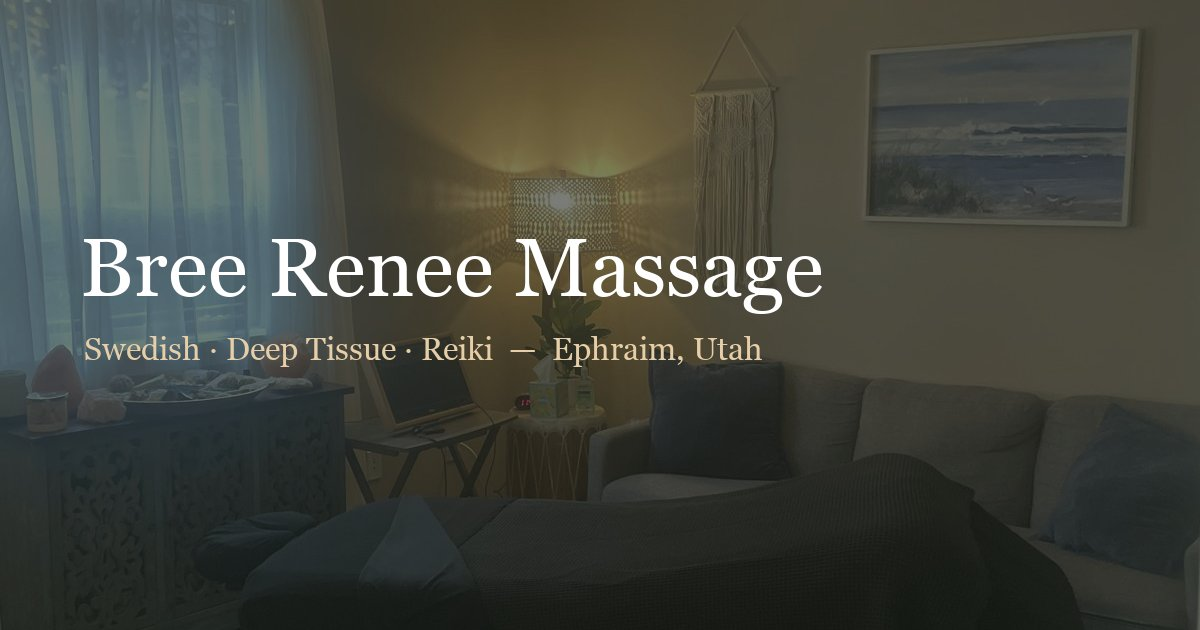
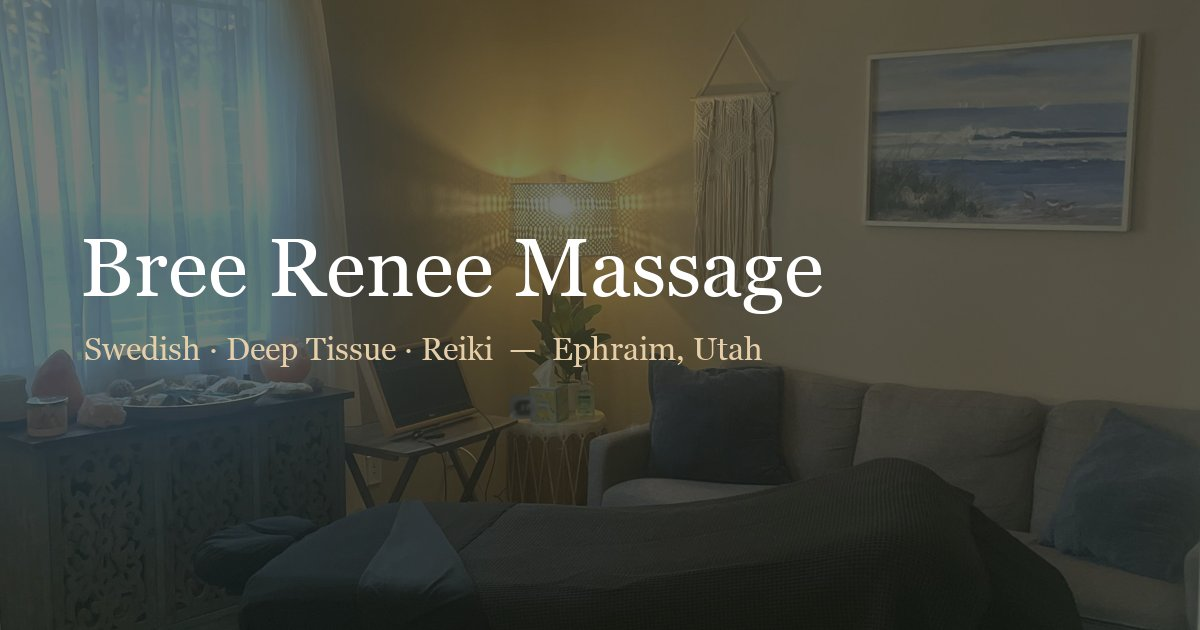
Bree: brighter wide hero, Bree photo chip + Meet Bree moved up, review strip, Reiki save $280

diff --git a/index.html b/index.html
@@ -16,7 +16,16 @@
 <div class="wrap"><p class="kick">Massage therapy &middot; Ephraim, Utah</p>
 <h1>Heal through <i>therapeutic</i> touch</h1>
 <p class="lead">Whether you're navigating chronic pain, burnout, or craving stillness, you've found your way here. Swedish and deep tissue massage with Reiki Master Bree Renee.</p>
-<div class="cta"><a class="btn light" href="https://book.squareup.com/appointments/sf5pvfurub81u7/location/LKKCGNEJVD06K/services">Book your massage</a><a class="btn ghost" href="/bree-renee-massage/pricing/">See pricing</a></div><p class="note" style="color:inherit;opacity:.85">New male clients by referral only. <a href="/bree-renee-massage/pricing/#policy">Details</a></p></div></section>
+<div class="cta"><a class="btn light" href="https://book.squareup.com/appointments/sf5pvfurub81u7/location/LKKCGNEJVD06K/services">Book your massage</a><a class="btn ghost" href="/bree-renee-massage/pricing/">See pricing</a></div><p class="note" style="color:inherit;opacity:.85">New male clients by referral only. <a href="/bree-renee-massage/pricing/#policy">Details</a></p>
+<a class="hchip" href="/bree-renee-massage/about/"><img src="/bree-renee-massage/img/bree.jpg" alt="Bree Renee" width="54" height="54"><span>Hi, I'm Bree<small>LICENSED MASSAGE THERAPIST &middot; REIKI MASTER</small></span></a></div></section>
+<section class="proof" aria-label="Client review"><div class="wrap"><div><div class="st">★★★★★</div><blockquote>“After one session, I slept pain-free for the first time in weeks.”</blockquote><cite>Austin L.</cite></div>
+<div class="score"><b>5.0</b>16 Facebook recommendations<br><a href="/bree-renee-massage/reviews/">Read all reviews →</a></div></div></section>
+
+<section class="sec" id="meet"><div class="wrap split"><img src="/bree-renee-massage/img/bree.jpg" alt="Bree Renee, massage therapist and Reiki Master in Ephraim" width="600" height="600">
+<div><p class="kick" style="margin-left:-38px">Meet Bree</p><h2>Massage is my art, my passion &amp; my <i>purpose</i></h2>
+<p>Bree followed a string of "nudges" to massage school, having received only one massage in her life. The minute she walked through the doors of Healing Mountain Massage School, she knew she was home.</p>
+<p>Today she's a licensed massage therapist and Reiki Master who blends skilled bodywork with energetic awareness. Her purpose is simple: help every client feel cared for, safe and loved.</p>
+<div class="cta"><a class="btn ghost" href="/bree-renee-massage/about/">Bree's story</a></div></div></div></section>
 
 <section class="sec"><div class="wrap center"><p class="kick">What to expect</p><h2>Holding space for the body <i>to heal</i></h2>
 <p class="lead">The body heals itself when it is in a state of rest. Bree's job is to hold that space, so your body can do what it knows how to do best.</p>
@@ -26,13 +35,8 @@
 
 <section class="sec sand"><div class="wrap"><div class="center"><p class="kick">Massage</p><h2>Choose your <i>session</i></h2>
 <p class="lead">Every session includes a personalized care plan. Your healing journey is always uniquely yours.</p></div>
-<div class="three"><a class="card" href="/bree-renee-massage/swedish-massage/"><span class="n">01</span><h3>Swedish massage</h3><p>A gentle, nurturing touch to release surface tension, ease stress, and invite your body into a state of rest and…</p><span class="pill">from $111</span><br><span class="more">Learn more →</span></a><a class="card" href="/bree-renee-massage/deep-tissue-massage/"><span class="n">02</span><h3>Deep tissue massage</h3><p>Focused, deep pressure to melt stubborn muscle tension and restore mobility. Includes trigger point therapy to melt away knots, and dynamic…</p><span class="pill">from $122</span><br><span class="more">Learn more →</span></a><a class="card" href="/bree-renee-massage/reiki-energy-work/"><span class="n">03</span><h3>Reiki & energy work</h3><p>Myofascial work meets energetic awareness. During your session Bree isn't only feeling for knots in the muscles. She can sense energetic imbalances…</p><span class="pill">$65 a session</span><br><span class="more">Learn more →</span></a></div></div></section>
+<div class="three"><a class="card" href="/bree-renee-massage/swedish-massage/"><span class="n">01</span><h3>Swedish massage</h3><p>A gentle, nurturing touch to release surface tension, ease stress, and invite your body into a state of rest and…</p><span class="pill">from $111</span><br><span class="more">Learn more →</span></a><a class="card" href="/bree-renee-massage/deep-tissue-massage/"><span class="n">02</span><h3>Deep tissue massage</h3><p>Focused, deep pressure to melt stubborn muscle tension and restore mobility. Includes trigger point therapy to melt away knots, and dynamic…</p><span class="pill">from $122</span><br><span class="more">Learn more →</span></a><a class="card" href="/bree-renee-massage/reiki-energy-work/"><span class="n">03</span><h3>Reiki & energy work</h3><p>Myofascial work meets energetic awareness. During your session Bree isn't only feeling for knots in the muscles. She can sense energetic imbalances…</p><span class="pill">$65 a session</span><span class="pill">12 for $500 &middot; save $280</span><br><span class="more">Learn more →</span></a></div></div></section>
 
-<section class="sec"><div class="wrap split"><img src="/bree-renee-massage/img/bree.jpg" alt="Bree Renee, massage therapist and Reiki Master in Ephraim" loading="lazy" width="600" height="600">
-<div><p class="kick" style="margin-left:-38px">Meet Bree</p><h2>Massage is my art, my passion &amp; my <i>purpose</i></h2>
-<p>Bree followed a string of "nudges" to massage school, having received only one massage in her life. The minute she walked through the doors of Healing Mountain Massage School, she knew she was home.</p>
-<p>Today she's a licensed massage therapist and Reiki Master who blends skilled bodywork with energetic awareness. Her purpose is simple: help every client feel cared for, safe and loved.</p>
-<div class="cta"><a class="btn ghost" href="/bree-renee-massage/about/">Bree's story</a></div></div></div></section>
 
 <section class="sec moss"><div class="wrap"><div class="center"><p class="kick">Client love</p><h2>Kind words from <i>clients</i></h2></div>
 <div class="quotes"><figure class="q"><div class="st">★★★★★</div><blockquote>“Bree was incredibly attentive and quickly identified the root of my shoulder and neck pain. After one session, I slept pain-free for the first time in weeks. I left feeling amazing! I highly recommend.”</blockquote><cite>Austin L.</cite></figure><figure class="q"><div class="st">★★★★★</div><blockquote>“Bree is such a beautiful soul! She brings a simultaneously intuitive and informed intentionality to everything she does, and has a gift for making you feel completely safe and comfortable and able to relax.”</blockquote><cite>Heather B.</cite></figure><figure class="q"><div class="st">★★★★★</div><blockquote>“Not only do I sleep better after seeing her, but my aches and pains are greatly diminished. She truly listens to your concerns and implements techniques that offer real relief.”</blockquote><cite>Julie M.</cite></figure></div><div class="cta" style="justify-content:center"><a class="btn light" href="/bree-renee-massage/reviews/">Read more reviews</a></div></div></section>

diff --git a/pricing/index.html b/pricing/index.html
@@ -14,7 +14,7 @@
 </div></header>
 <section class="pagehead"><div class="wrap center"><p class="kick">Pricing</p><h1>Invest in <i>yourself</i></h1>
 <p class="lead">Every session includes a personalized care plan. Massage isn't a one-time fix-all. Just like anything worthwhile, what we invest comes back multiplied.</p></div></section>
-<section class="sec"><div class="wrap" style="max-width:860px"><div class="price"><div><b>Swedish Massage</b><span>from $111</span><p>60, 90 or 120 minutes. Gentle gliding pressure for whole-body rest.</p></div><div><b>Deep Tissue Massage</b><span>from $122</span><p>60, 90 or 120 minutes. Firm, focused pressure, trigger point work and stretching.</p></div><div><b>Reiki Session</b><span>$65</span><p>A full Reiki session on its own. Or save with a bundle of 12 sessions for $500.</p></div><div><b>Hot Stones</b><span>add-on, $15</span><p>Warm stones let the work go deeper without intense pressure.</p></div><div><b>Aromatherapy</b><span>add-on</span><p>A calming sensory boost, chosen for your session.</p></div></div><p class="note">Exact price depends on the length you choose. You'll see it before you confirm in the booking app. Reiki is booked by text.</p><p class="note" id="policy"><b>Please note:</b> Bree accepts new male clients by referral only. If you're a man booking for the first time, please write the name of the current client who referred you in your booking notes, or text Bree before you book.<br>New to Bree? Please fill out the <a href="https://form.jotform.com/242697445571164">client intake &amp; consent form</a> before your first visit.</p>
+<section class="sec"><div class="wrap" style="max-width:860px"><div class="price"><div><b>Swedish Massage</b><span>from $111</span><p>60, 90 or 120 minutes. Gentle gliding pressure for whole-body rest.</p></div><div><b>Deep Tissue Massage</b><span>from $122</span><p>60, 90 or 120 minutes. Firm, focused pressure, trigger point work and stretching.</p></div><div><b>Reiki Session</b><span>$65</span><p>A full Reiki session on its own. Or buy a bundle of 12 sessions for $500 <span class="save">Save $280</span></p></div><div><b>Hot Stones</b><span>add-on, $15</span><p>Warm stones let the work go deeper without intense pressure.</p></div><div><b>Aromatherapy</b><span>add-on</span><p>A calming sensory boost, chosen for your session.</p></div></div><p class="note">Exact price depends on the length you choose. You'll see it before you confirm in the booking app. Reiki is booked by text.</p><p class="note" id="policy"><b>Please note:</b> Bree accepts new male clients by referral only. If you're a man booking for the first time, please write the name of the current client who referred you in your booking notes, or text Bree before you book.<br>New to Bree? Please fill out the <a href="https://form.jotform.com/242697445571164">client intake &amp; consent form</a> before your first visit.</p>
 <div class="cta"><a class="btn" href="https://book.squareup.com/appointments/sf5pvfurub81u7/location/LKKCGNEJVD06K/services">Book online</a><a class="btn ghost" href="sms:+14358510965">Text Bree</a></div>
 <div style="margin-top:60px"><div class="faq"><details><summary>Why “from”?</summary><p>Exact price depends on the length you choose. You'll see it before you confirm in the booking app.</p></details><details><summary>Which length should I book?</summary><p>Most people love 90 minutes, because it leaves time for the whole body without rushing. 60 minutes works well for regular upkeep, and 120 minutes is a deep rest.</p></details><details><summary>Do you take new male clients?</summary><p>Bree accepts new male clients by referral only. If you're a man booking for the first time, please write the name of the current client who referred you in your booking notes, or text Bree before you book.</p></details></div></div></div></section><section class="band"><div class="wrap"><p class="kick" style="color:#fff">Your body knows how to heal</p><h2>Make space to <i>rest</i></h2>
 <div class="cta"><a class="btn light" href="https://book.squareup.com/appointments/sf5pvfurub81u7/location/LKKCGNEJVD06K/services">Book your massage</a><a class="btn ghost" href="sms:+14358510965">Text Bree</a></div></div></section>

diff --git a/style.css b/style.css
@@ -22,13 +22,19 @@ h1 i,h2 i,h3 i{font-family:'Allura',cursive;font-style:normal;color:var(--bronze
 .nav{display:flex;gap:22px}.nav a{text-decoration:none;font-size:14px;letter-spacing:.06em}.nav a:hover{color:var(--bronze)}
 .menu{display:none;background:none;border:1px solid var(--ink);padding:9px 12px;font:500 11px 'Jost';letter-spacing:.2em}
 .hero{position:relative;min-height:calc(100vh - 78px);display:flex;align-items:center;color:#fff;overflow:hidden}
-.hero img.bg{position:absolute;inset:0;width:100%;height:100%;object-fit:cover}
-.hero:after{content:"";position:absolute;inset:0;background:linear-gradient(90deg,rgba(28,33,25,.82),rgba(28,33,25,.35) 70%,rgba(28,33,25,.15))}
+.hero img.bg{position:absolute;inset:0;width:100%;height:100%;object-fit:cover;object-position:46% 50%}
+.hero:after{content:"";position:absolute;inset:0;background:linear-gradient(90deg,rgba(28,33,25,.78),rgba(28,33,25,.42) 55%,rgba(28,33,25,.08))}
 .hero .wrap{position:relative;z-index:1;width:100%;padding-top:70px;padding-bottom:70px}
 .hero .kick{color:var(--sage2)}.hero h1 i{color:#e6cfa8}
 .hero .lead{color:#efe9df}
 .sec{padding:110px 0}.sec.sand{background:var(--sand)}.sec.moss{background:var(--moss);color:#fff}.sec.moss .kick{color:var(--sage2)}.sec.moss h2 i{color:#e6cfa8}
 .center{text-align:center}.center .lead{margin:0 auto}
+.hchip{display:inline-flex;align-items:center;gap:14px;margin:26px 0 0;padding:8px 18px 8px 8px;background:rgba(246,241,233,.12);border:1px solid rgba(246,241,233,.28);border-radius:60px;backdrop-filter:blur(4px);color:#fff;text-decoration:none;font-size:15px;line-height:1.35}
+.hchip img{width:54px;height:54px;border-radius:50%;object-fit:cover;object-position:50% 20%;border:2px solid #e6cfa8}.hchip small{display:block;color:#e6cfa8;font-size:12px;letter-spacing:.08em}
+.proof{background:var(--sand);border-bottom:1px solid var(--line);padding:30px 0}.proof .wrap{display:flex;align-items:center;justify-content:center;gap:28px;flex-wrap:wrap;text-align:center}
+.proof blockquote{margin:0;font:italic 400 23px/1.4 'Cormorant Garamond',Georgia,serif;max-width:640px}.proof .st{color:var(--bronze);letter-spacing:.18em;font-size:15px}.proof cite{font-style:normal;font-size:13px;letter-spacing:.14em;text-transform:uppercase;color:#6b665c}
+.proof .score{border-left:1px solid var(--line);padding-left:28px;font-size:14px;color:#5c5a52}.proof .score b{display:block;font:500 34px/1 'Cormorant Garamond',Georgia,serif;color:var(--ink)}
+.save{display:inline-block;margin-left:8px;padding:2px 10px;border-radius:30px;background:var(--moss);color:#fff;font:600 11px 'Jost';letter-spacing:.14em;text-transform:uppercase;vertical-align:middle}
 .split{display:grid;grid-template-columns:1fr 1fr;gap:72px;align-items:center}
 .split img{width:100%;aspect-ratio:4/5;object-fit:cover;object-position:50% 25%}
 .three{display:grid;grid-template-columns:repeat(3,1fr);gap:28px;margin-top:54px}
@@ -83,7 +89,7 @@ footer .logo b{color:#fff}
  .nav.open{display:flex}.nav a{padding:16px 24px;border-top:1px solid var(--line)}
  .menu{display:block}.top .btn{display:none}
  .split,.three,.quotes,.trio,.steps,.visit{grid-template-columns:1fr}.findit{gap:8px}.findit figcaption{font-size:12px}.split{gap:40px}
- .sec{padding:76px 0}.hero{min-height:82vh}
+ .sec{padding:76px 0}.hero{min-height:82vh}.hero img.bg{object-position:40% 50%}.proof .score{border-left:0;padding-left:0}.proof blockquote{font-size:20px}
  footer .wrap{grid-template-columns:1fr 1fr}footer .wrap>div:first-child{grid-column:1/-1}
  .mbar{display:grid;grid-template-columns:1fr 1fr;position:fixed;bottom:0;left:0;right:0;z-index:30}
  .mbar a{padding:16px;text-align:center;text-decoration:none;font-size:13px;letter-spacing:.16em;text-transform:uppercase;background:var(--ink);color:#fff}

diff --git a/reiki-energy-work/index.html b/reiki-energy-work/index.html
@@ -13,7 +13,7 @@
 <button class="menu" onclick="document.getElementById('nav').classList.toggle('open')" aria-label="Menu">MENU</button>
 </div></header>
 <section class="pagehead"><div class="wrap split"><div><p class="kick" style="margin-left:-38px">Beyond the physical</p><h1>Reiki &amp; <i>energy work</i></h1>
-<p class="lead">Myofascial work meets energetic awareness. During your session Bree isn't only feeling for knots in the muscles. She can sense energetic imbalances and works to help your systems find space to rebalance, so your body can do what it knows how to do best.</p><p><span class="pill">$65 a session</span><span class="pill">Ephraim, Utah</span></p>
+<p class="lead">Myofascial work meets energetic awareness. During your session Bree isn't only feeling for knots in the muscles. She can sense energetic imbalances and works to help your systems find space to rebalance, so your body can do what it knows how to do best.</p><p><span class="pill">$65 a session</span><span class="pill">12 for $500 &middot; save $280</span><span class="pill">Ephraim, Utah</span></p>
 <div class="cta"><a class="btn" href="sms:+14358510965">Text to book Reiki</a><a class="btn ghost" href="https://book.squareup.com/appointments/sf5pvfurub81u7/location/LKKCGNEJVD06K/services">Book a massage</a></div><p class="note">New male clients by referral only. <a href="/bree-renee-massage/pricing/#policy">Details</a></p></div>
 <img src="/bree-renee-massage/img/bree.jpg" alt="Reiki &amp; energy work with Bree Renee in Ephraim, Utah" fetchpriority="high"></div></section>
 <section class="sec"><div class="wrap split" style="align-items:start"><div><p class="kick" style="margin-left:-38px">Is it for me?</p><h2>Wonderful <i>for</i></h2><ul class="good"><li>Feeling heavy, drained or stuck</li><li>Grief, big life changes or burnout</li><li>Anyone curious about energy work</li><li>Clients who want more than a physical massage</li></ul></div>
